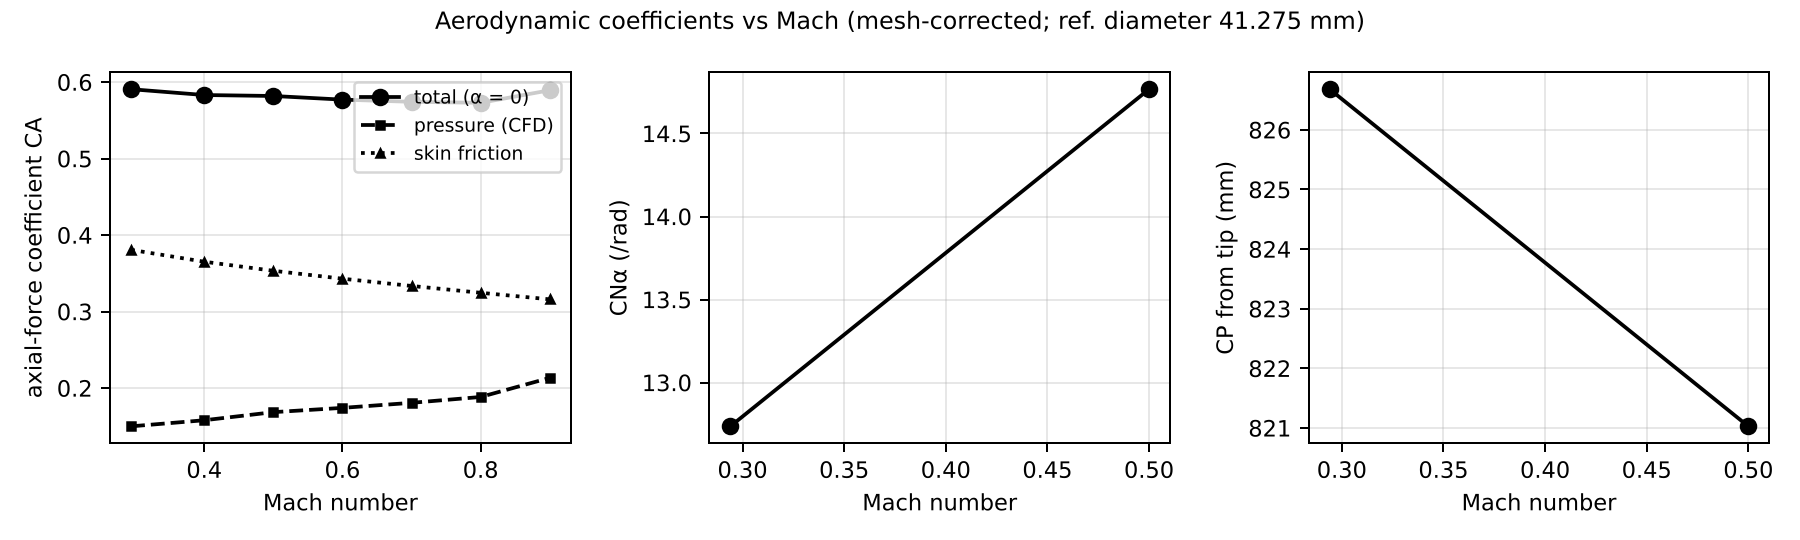
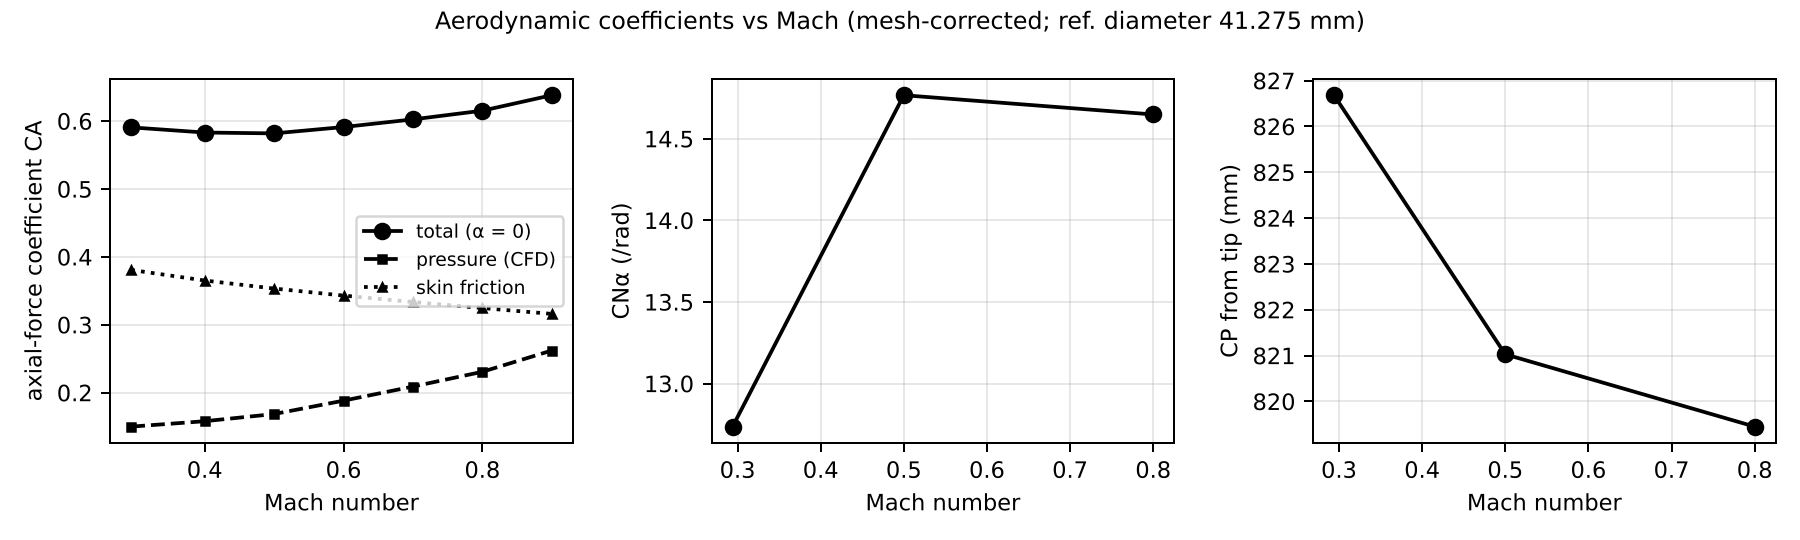
Mach 0.8 CFD; flight sim on final drag (1664 m nominal), drag band incl. OpenRocket-like case
Claude-Session: https://claude.ai/code/session_01JbHocCdFPmDsRrA6bRt32a

diff --git a/tools/msp_flight.py b/tools/msp_flight.py
@@ -113,14 +113,15 @@ def main():
               f"Barrowman {rec['sm_barrowman_liftoff']:.2f}  v_dep {rec['v_deploy']:.1f}")
     # drag sensitivity on the 1.8 cal configuration
     out["drag_band"] = []
-    for k in (0.85, 1.0, 1.15):
+    for k in (0.85, 1.0, 1.15, 1.40):
         rkt, motor, _ = build(ball["1.8 cal at liftoff"], aero, base, drag_k=k)
         f = fly(rkt)
         t_bo = float(motor.burn_out_time)
         out["drag_band"].append(dict(drag_factor=k, apogee_m=float(f.apogee), apogee_ft=float(f.apogee) / 0.3048,
                                      vmax=float(f.max_speed), mach_max=float(f.max_mach_number),
                                      t_apogee=float(f.apogee_time), ideal_delay_s=float(f.apogee_time) - t_bo,
-                                     v_deploy_12s=float(f.speed(t_bo + DELAY))))
+                                     v_deploy_12s=float(f.speed(t_bo + DELAY)),
+                                     v_deploy={d: float(f.speed(t_bo + d)) for d in (11, 12, 13, 14)}))
         print(f"drag x{k:.2f}: apogee {f.apogee:.0f} m, M {f.max_mach_number:.2f}, ideal delay {f.apogee_time - t_bo:.1f} s, "
               f"v at 12 s {f.speed(t_bo + DELAY):.1f} m/s")
     # wind cases on the 1.8 cal configuration
